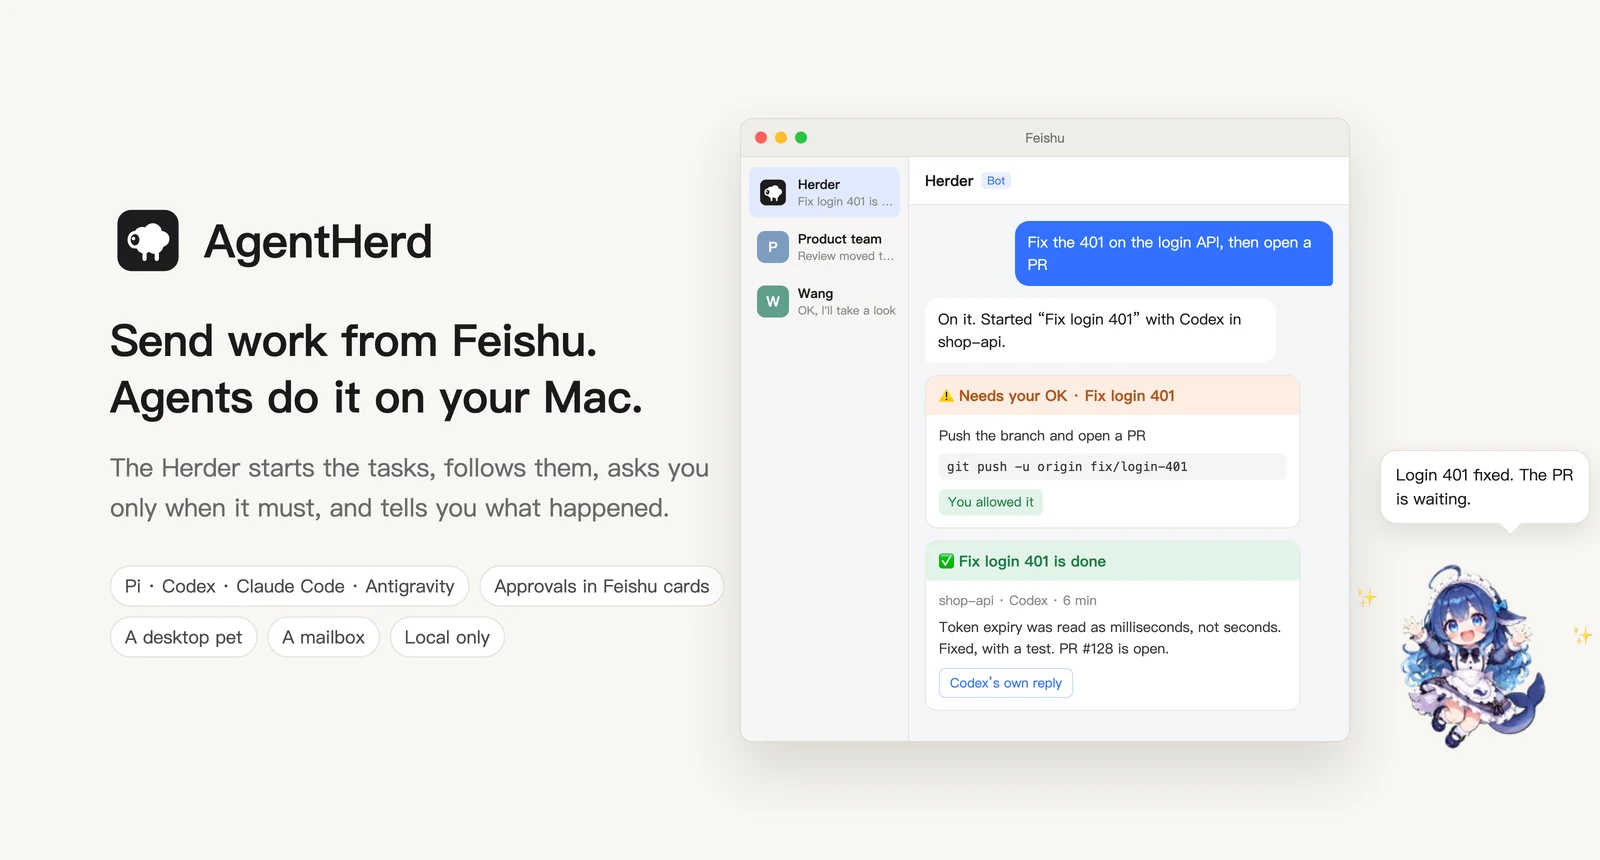
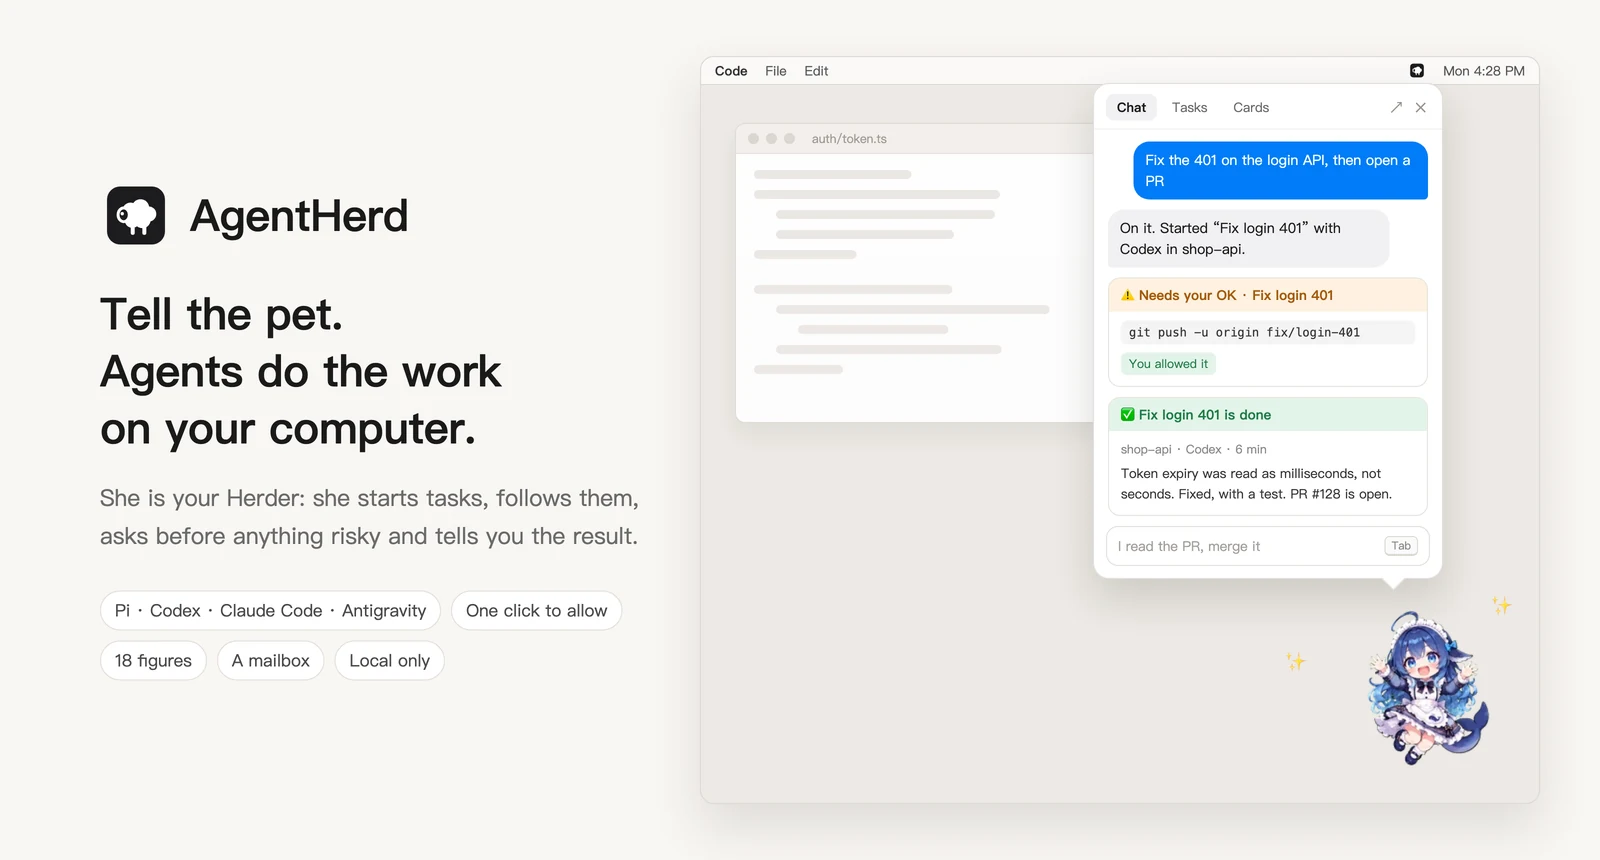
docs(readme): lead with the desktop pet, Feishu for when you are away

diff --git a/README.zh-CN.md b/README.zh-CN.md
@@ -1,34 +1,41 @@
 <div align="center">
 
-<img src="docs/images/hero.zh-CN.webp" alt="AgentHerd：在飞书里派活，Agent 在你的电脑上做完" width="100%">
+<img src="docs/images/hero.zh-CN.webp" alt="AgentHerd：跟桌宠说一句，Agent 在你的电脑上做完" width="100%">
 
 [English](README.md) · 简体中文
 
 [![macOS | Windows](https://img.shields.io/badge/platform-macOS%20%7C%20Windows-111)](docs/spec/02-architecture.md) [![Feishu / Lark](https://img.shields.io/badge/chat-Feishu%20%2F%20Lark-3370ff)](docs/spec/05-channels.md) [![ACP](https://img.shields.io/badge/protocol-ACP-6b5bd6)](https://agentclientprotocol.com) [![License: MIT](https://img.shields.io/badge/license-MIT-green)](LICENSE)<br>
 [![agent: Pi](https://img.shields.io/badge/agent-Pi-444)](https://github.com/earendil-works/pi) [![agent: Codex](https://img.shields.io/badge/agent-Codex-444)](https://github.com/openai/codex) [![agent: Claude Code](https://img.shields.io/badge/agent-Claude%20Code-444)](https://github.com/anthropics/claude-code) [![agent: Antigravity](https://img.shields.io/badge/agent-Antigravity-444)](https://antigravity.google)
 
-[一个例子](#一个例子) · [能做什么](#能做什么) · [支持的-agent](#支持的-agent) · [开始使用](#开始使用) · [文档](#文档)
+[一个例子](#一个例子) · [能做什么](#能做什么) · [支持的 Agent](#支持的-agent) · [开始使用](#开始使用) · [文档](#文档)
 
 </div>
 
 > **状态：** 正在开发，还没有发布版本，请从源码运行。
 
-AgentHerd 是装在你电脑上的一个 App。你在飞书里跟「主管」说要做什么，主管在这台电脑上开任务，交给 Pi、Codex、Claude Code 或 Antigravity 去做，并一路盯着。要推代码、对外发东西、一次删一大片文件时，它会先问你；做完用一两句话告诉你结果。人不在电脑前，也能派活。
+AgentHerd 是装在你电脑上的一个 App。桌面一角住着一只桌宠，她就是你的「主管」：你跟她说要做什么，她在这台电脑上开任务，交给 Pi、Codex、Claude Code 或 Antigravity 去做，并一路盯着。要推代码、对外发东西、一次删一大片文件时，她会先问你；做完用一两句话告诉你结果。
 
 ## 一个例子
 
-1. 你在飞书里说：「修一下登录接口的 401，修好开个 PR」。
-2. 主管开一个任务「修登录 401」，让 Codex 在 shop-api 的副本里改。
-3. Codex 要推送分支时，你的飞书收到一张「等你确认」卡片，你点了「同意」。
-4. 做完，主管发来一句：「token 过期时间把秒当成了毫秒，改好了，加了测试，PR #128 已经开好」。Codex 的原话点一下就能看。
+1. 你点一下桌宠，说：「修一下登录接口的 401，修好开个 PR」。
+2. 她开一个任务「修登录 401」，让 Codex 在 shop-api 的副本里改，自己回去待着。
+3. Codex 要推送分支时，她的对话里出现一张「等你确认」卡片，你点了「同意」。
+4. 做完她跳一下，说：「token 过期时间把秒当成了毫秒，改好了，加了测试，PR #128 已经开好」。Codex 的原话点一下就能看。
 
 ## 能做什么
 
+### 桌面上的主管
+
+- **点她就能说话。** 大肥鱼、Claude 娘或另外 16 个动漫形象浮在桌面一角。点一下就是和主管的对话，任务卡、要你同意的事都在里面；文件拖到她身上，就交给主管处理。
+- **看她就知道在干什么。** 她在想时捧着书、头上冒「…」，回复到了会跳一下；头顶每个在跑的任务一个小圆点，哪个在等你一眼就看得出。
+- **不在眼前也知道。** 有事会弹系统通知，菜单栏的小羊图标能看状态，晚上可以设免打扰。
+- **快捷键。** 在任何应用里按 ⇧⌘空格 直接跟她说话，按两下 ⇧⌘Y 同意最早那件等你的事。
+
 ### 派活和跟进
 
-- **飞书就是遥控器。** 发消息派活，在卡片上回答问题、批准、让任务接着做。扫一次码就接好。
 - **主管替你盯着。** 它挑合适的 Agent 和模型，盯进度，任务卡住了会发现，做完用自己的话告诉你。
 - **任务能接着做。** 每个任务在项目的副本里干活，做完也保留，过几天还能接着说。
+- **人不在电脑前也行。** 主管也在飞书里，桌宠里的对话和卡片飞书里都有，在手机上一样能派活、点同意。
 - **做了什么都看得到。** App 里能看到每个任务的完整对话、主管每一步的理由，以及每次请求用了多少 token、花了多少钱。
 
 ### 只在必须时问你
@@ -43,12 +50,6 @@ AgentHerd 是装在你电脑上的一个 App。你在飞书里跟「主管」说
 - **飞书文档和日程。** 用官方 lark-cli 登录一次，任务就能读你的文档、表格和日程，结果写成新文档；改已有的东西会先问你。
 - **插件。** 能装 Claude Code 插件和 Gemini CLI 扩展。装之前先给你看它会运行什么。
 - **记忆。** 主管记得怎么称呼你、你在做什么，也记得你纠正过它的地方。在「记忆」页能看能改。
-
-### 桌面上的主管
-
-- **桌宠。** 大肥鱼、Claude 娘或另外 16 个动漫形象浮在桌面一角。点她就是和主管的对话，任务卡、要你同意的事都在里面；文件拖到她身上，就交给主管处理。
-- **不在眼前也知道。** 有事会弹系统通知，菜单栏的小羊图标能看状态，晚上可以设免打扰。
-- **快捷键。** 在任何应用里按 ⇧⌘空格 直接跟她说话，按两下 ⇧⌘Y 同意最早那件等你的事。
 
 ## 支持的 Agent
 
@@ -71,7 +72,7 @@ pnpm --filter @agentherd/desktop fetch-agents   # 从源码运行时，下载 Pi
 pnpm --filter @agentherd/desktop start
 ```
 
-第一次打开会一步步带你：告诉主管怎么称呼你、选形象、扫码接飞书、加模型服务和 Key（也可以用 ChatGPT、Claude、Copilot 等订阅账号登录）、给主管选模型。然后在飞书里给主管发条消息就行。
+第一次打开会一步步带你：告诉主管怎么称呼你、选形象、扫码接飞书、加模型服务和 Key（也可以用 ChatGPT、Claude、Copilot 等订阅账号登录）、给主管选模型。然后点一下桌宠，跟她说要做什么就行。
 
 <details>
 <summary>Windows、打包、开发和命令行</summary>

diff --git a/README.md b/README.md
@@ -1,6 +1,6 @@
 <div align="center">
 
-<img src="docs/images/hero.webp" alt="AgentHerd: send work from Feishu, agents do it on your Mac" width="100%">
+<img src="docs/images/hero.webp" alt="AgentHerd: tell the pet, agents do the work on your computer" width="100%">
 
 English · [简体中文](README.zh-CN.md)
 
@@ -13,22 +13,29 @@ English · [简体中文](README.zh-CN.md)
 
 > **Status:** in active development. There is no release yet; run it from source.
 
-AgentHerd is an app on your computer. You tell the Herder in Feishu what you want; it starts a task on this computer, hands it to Pi, Codex, Claude Code or Antigravity, and follows it. Before a push, anything sent to other people, or a mass delete, it asks you; when the work is done it tells you in a sentence or two. You can hand out work without being at your desk.
+AgentHerd is an app on your computer. A desktop pet lives in a corner of your screen, and she is your Herder: tell her what you want and she starts a task on this computer, hands it to Pi, Codex, Claude Code or Antigravity, and follows it. Before a push, anything sent to other people, or a mass delete, she asks you; when the work is done she tells you in a sentence or two.
 
 ## An example
 
-1. In Feishu you write: "Fix the 401 on the login API, then open a PR."
-2. The Herder starts a task, "Fix login 401", and has Codex work on a copy of shop-api.
-3. When Codex wants to push the branch, a "Needs your OK" card reaches your phone. You tap Allow.
-4. When it is done, the Herder writes: "Token expiry was read as milliseconds, not seconds. Fixed, with a test. PR #128 is open." Codex's own reply is one tap away.
+1. You click the pet and say: "Fix the 401 on the login API, then open a PR."
+2. She starts a task, "Fix login 401", has Codex work on a copy of shop-api, and goes back to her corner.
+3. When Codex wants to push the branch, a "Needs your OK" card appears in her conversation. You click Allow.
+4. When it is done she hops and says: "Token expiry was read as milliseconds, not seconds. Fixed, with a test. PR #128 is open." Codex's own reply is one click away.
 
 ## What it does
 
+### The Herder on your desktop
+
+- **Click her to talk.** 大肥鱼, Claude 娘 or one of 16 anime figures sits in a corner of your screen. A click opens the conversation with the Herder, with task cards and approvals right there. Drop a file on her to hand it over.
+- **See what she is doing.** She reads a book while she thinks and hops when a reply arrives; a small dot above her for each running task shows which one waits for you.
+- **Out of sight, still in the loop.** System notifications, a sheep in the menu bar for status, and quiet hours at night.
+- **Shortcuts.** ⇧⌘Space talks to her from any app; ⇧⌘Y twice allows the oldest approval.
+
 ### Hand out work and follow it
 
-- **Feishu is the remote control.** Send a message to start work; answer questions, approve and continue from cards. One QR scan connects it.
 - **The Herder keeps watch.** It picks the agent and model, follows progress, notices a stuck task, and tells you each result in its own words.
 - **Tasks keep going.** Each task works on a copy of your project and is kept after it ends, so you can pick it up days later.
+- **Away from your desk too.** The Herder is also in Feishu: the pet's conversation and cards are in Feishu too, so you can hand out work and approve from your phone.
 - **You can see what happened.** The app shows every task's conversation, why the Herder took each step, and the tokens and cost of every request.
 
 ### It asks only when it must
@@ -43,12 +50,6 @@ AgentHerd is an app on your computer. You tell the Herder in Feishu what you wan
 - **Your Feishu docs and calendar.** Sign in once with the official lark-cli and tasks read your docs, sheets and calendar and write results as new docs. Changing existing things asks you.
 - **Plugins.** Install Claude Code plugins and Gemini CLI extensions. You see what they run before you install.
 - **Memory.** The Herder remembers what to call you, what you work on, and what you corrected. You can see and edit it on the Memory page.
-
-### The Herder on your desktop
-
-- **A desktop pet.** 大肥鱼, Claude 娘 or one of 16 anime figures sits in a corner of your screen. Click her to talk to the Herder; task cards and approvals are right there. Drop a file on her to hand it over.
-- **Out of sight, still in the loop.** System notifications, a sheep in the menu bar for status, and quiet hours at night.
-- **Shortcuts.** ⇧⌘Space talks to her from any app; ⇧⌘Y twice allows the oldest approval.
 
 ## Agents
 
@@ -71,7 +72,7 @@ pnpm --filter @agentherd/desktop fetch-agents   # from source: download Pi and C
 pnpm --filter @agentherd/desktop start
 ```
 
-The first run walks you through it: what the Herder should call you, its figure, a QR scan for Feishu, a model service and key (or a ChatGPT, Claude, Copilot or other plan), and the Herder's model. Then send the Herder a message in Feishu.
+The first run walks you through it: what the Herder should call you, its figure, a QR scan for Feishu, a model service and key (or a ChatGPT, Claude, Copilot or other plan), and the Herder's model. Then click the pet and tell her what you want.
 
 <details>
 <summary>Windows, packaging, development and the command line</summary>
